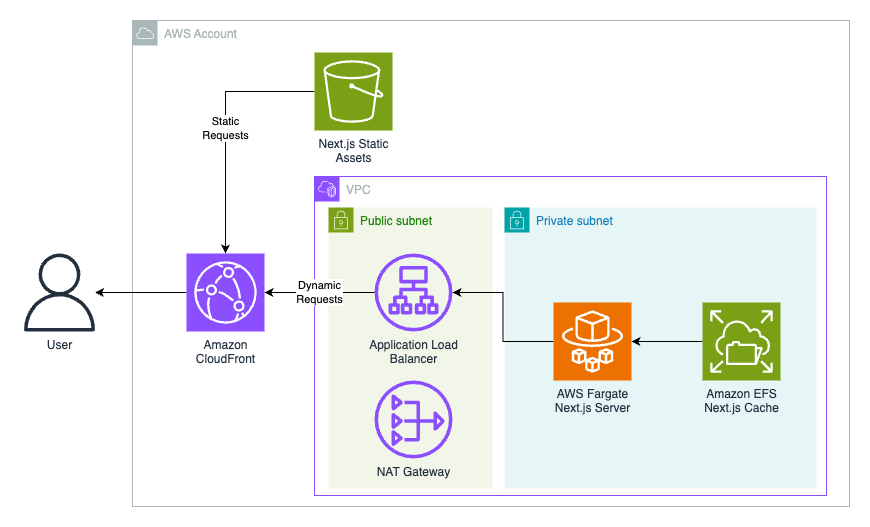
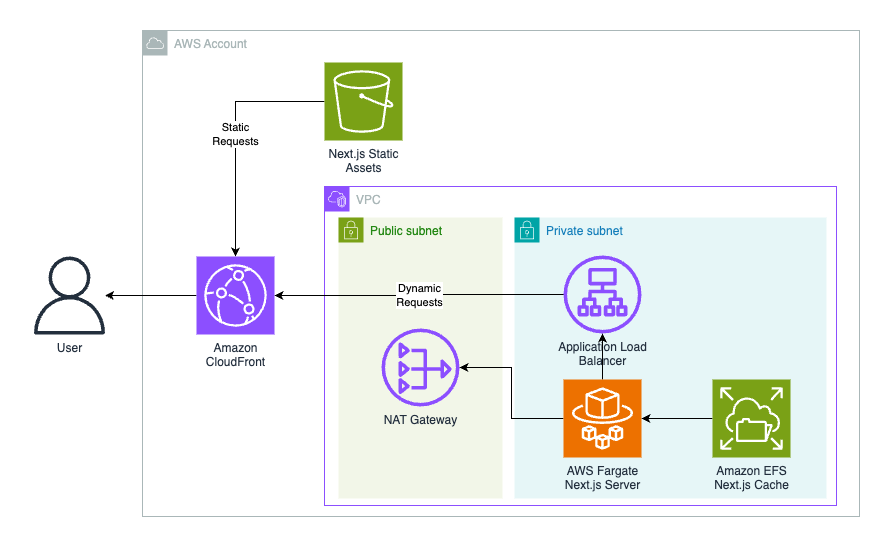
docs: private containers example (#143)
* docs: private containers example

* docs: private containers port 80

* docs: private container host instead of url

Changed region(s): [[0.031, 0.0607, 0.9931, 0.9715], [0.1241, 0.0304, 0.9621, 0.1214]]

diff --git a/examples/private-containers/app.ts b/examples/private-containers/app.ts
@@ -1,0 +1,128 @@
+import { Aspects, CfnOutput, Stack, StackProps } from "aws-cdk-lib";
+import { Construct } from "constructs";
+import { NextjsRegionalContainers } from "cdk-nextjs";
+import { App } from "aws-cdk-lib";
+import { AwsSolutionsChecks, NagSuppressions } from "cdk-nag";
+import {
+  suppressCommonNags,
+  suppressContainerNags,
+} from "../shared/suppress-nags";
+import { getStackName } from "../shared/get-stack-name";
+import { join } from "node:path";
+import { getBuilderImageExcludeDirectories } from "../shared/get-builder-image-exclude-directories";
+import {
+  AmazonLinuxCpuType,
+  BastionHostLinux,
+  InstanceClass,
+  InstanceSize,
+  InstanceType,
+  IVpc,
+  MachineImage,
+  Port,
+} from "aws-cdk-lib/aws-ec2";
+import { ManagedPolicy } from "aws-cdk-lib/aws-iam";
+
+const app = new App();
+
+export class PrivateContainersStack extends Stack {
+  constructor(scope: Construct, id: string, props?: StackProps) {
+    super(scope, id, props);
+    const nextjs = new NextjsRegionalContainers(this, "Nextjs", {
+      healthCheckPath: "/api/health",
+      buildContext: join(import.meta.dirname, ".."),
+      overrides: {
+        nextjsRegionalContainers: {
+          nextjsBuildProps: {
+            builderImageProps: {
+              exclude: getBuilderImageExcludeDirectories(),
+            },
+          },
+        },
+        nextjsContainers: {
+          albFargateServiceProps: {
+            publicLoadBalancer: false,
+          },
+        },
+      },
+      relativePathToPackage: "./app-playground",
+    });
+    NagSuppressions.addResourceSuppressions(nextjs.nextjsVpc.vpc, [
+      {
+        id: "AwsSolutions-VPC7",
+        reason: "Flow logs not needed for this example",
+      },
+    ]);
+    NagSuppressions.addResourceSuppressions(
+      nextjs.nextjsContainers.albFargateService.loadBalancer,
+      [
+        {
+          id: "AwsSolutions-ELB2",
+          reason: "Access logs not needed for demo",
+        },
+      ],
+    );
+    new CfnOutput(this, "CdkNextjsUrl", {
+      value: nextjs.url,
+      key: "CdkNextjsUrl",
+    });
+    const bastion = this.#createBastionHost(nextjs.nextjsVpc.vpc);
+    nextjs.nextjsContainers.albFargateService.loadBalancer.connections.allowFrom(
+      bastion.connections,
+      Port.HTTP,
+    );
+  }
+
+  #createBastionHost(vpc: IVpc) {
+    const bastion = new BastionHostLinux(this, "SSMBastionHost", {
+      vpc,
+      instanceName: `prvt-cntnrs-ssm-bastion`,
+      instanceType: InstanceType.of(InstanceClass.T4G, InstanceSize.NANO),
+      machineImage: MachineImage.latestAmazonLinux2023({
+        cachedInContext: true, // prevents newest image from being used on each deploy
+        cpuType: AmazonLinuxCpuType.ARM_64,
+      }),
+    });
+    new CfnOutput(this, "BastionId", { value: bastion.instanceId });
+    const ssmManagedInstanceCorePolicy = ManagedPolicy.fromAwsManagedPolicyName(
+      "AmazonSSMManagedInstanceCore",
+    );
+    bastion.role.addManagedPolicy(ssmManagedInstanceCorePolicy);
+    NagSuppressions.addResourceSuppressions(
+      bastion.role.node.findChild("DefaultPolicy"),
+      [
+        {
+          id: "AwsSolutions-IAM5",
+          reason: "Bastion host can have wildcard policies",
+        },
+      ],
+    );
+    NagSuppressions.addResourceSuppressions(bastion.instance, [
+      {
+        id: "AwsSolutions-EC26",
+        reason: "Bastion host's volumes don't need to be encrypted",
+      },
+      {
+        id: "AwsSolutions-EC28",
+        reason:
+          "Bastion host's autoscaling launch config doesn't need detailed monitoring",
+      },
+      {
+        id: "AwsSolutions-EC29",
+        reason: "Bastion host's ASG doesn't need termination protection",
+      },
+    ]);
+    return bastion;
+  }
+}
+
+const stack = new PrivateContainersStack(app, getStackName("prvt-cntnrs"), {
+  env: {
+    account: process.env["CDK_DEFAULT_ACCOUNT"],
+    region: process.env["CDK_DEFAULT_REGION"],
+  },
+});
+
+suppressCommonNags(stack);
+suppressContainerNags(stack);
+
+Aspects.of(app).add(new AwsSolutionsChecks({ verbose: true }));

diff --git a/README.md b/README.md
@@ -156,9 +156,10 @@ More Details:
 
 [NAT Gateways](https://docs.aws.amazon.com/vpc/latest/userguide/vpc-nat-gateway.html) enable compute within private subnets to access the internet without directly exposing that compute to the internet. NAT Gateways prevent you from having to manage your own NAT Instances however they cost $0.045/hr/AZ resulting in charge of $64.80/month for 2 AZs (.045 x 24 x 30 x 2). While NAT Gateways are recommended by AWS to ensure maximum reliability and scalability, some customers may desire less expensive alternatives:
 
-1. $0.00 - if you're Next.js app does not need to access the internet, remove the NAT Gateway.
-2. $6.05 - managing your own [NAT Instance](https://docs.aws.amazon.com/vpc/latest/userguide/VPC_NAT_Instance.html). See [examples/low-cost](./examples/low-cost/) for how to use [fck-nat](https://fck-nat.dev/stable/).
-3. $32.40 - use 1 AZ instead of 2.
+1. $0.00 - move all resources (including EFS) into public subnet. This is not recommended from security perspective but is an option. Trade-off: less secure.
+2. $0.00 - if you're Next.js app does not need to access the internet, remove the NAT Gateway. Trade-off: less functionality.
+3. $6.05 - managing your own [NAT Instance](https://docs.aws.amazon.com/vpc/latest/userguide/VPC_NAT_Instance.html). See [examples/low-cost](./examples/low-cost/) for how to use [fck-nat](https://fck-nat.dev/stable/). Trade-off: less reliable.
+4. $32.40 - use 1 AZ instead of 2. Trade-off: less reliable.
 
 ### NextjsGlobalFunctions
 

diff --git a/examples/private-containers/README.md b/examples/private-containers/README.md
@@ -1,0 +1,10 @@
+# Private Containers Example
+
+## Steps
+
+1. Install AWS CLI and [Session Manager Plugin](https://docs.aws.amazon.com/systems-manager/latest/userguide/session-manager-working-with-install-plugin.html)
+1. `pnpm run deploy`
+1. See terminal output and look for `dev-prvt-cntnrs.CdkNextjsUrl`. Add to .env as `PRIVATE_HOST=""`. Make sure not to include "http://".
+1. See terminal output and look for `dev-prvt-cntnrs.BastionId`. Add to .env as `BASTION_ID=""`
+1. `pnpm connect`
+1. Visit private app at http://localhost:3000
